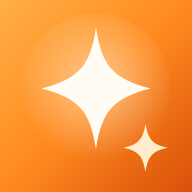
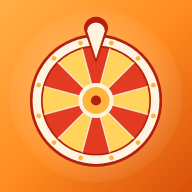
app 图标换成转盘,一眼看出是抽奖 (v25)
- 红金相间的 12 格转盘 + 奶油色指针 + 一圈金色灯泡,底色沿用橙色渐变
- 指针落在红格上,小尺寸(64px favicon)也能认出是转盘
- 顺带修好一个老问题:icon.html 里 .v.on 的权重低于 #box>svg{display:block},
  两个变体同时渲染,截图永远截第一个 —— 之前导出的 maskable 和标准图其实
  一模一样(md5 相同),Android 裁圆角会切到图形。选择器改成 #box>svg.v.on,
  maskable 现在真的缩到 0.8 落在安全圆内

Claude-Session: https://claude.ai/code/session_01Dnyjgi3Z2V5q129NEG1K6e

diff --git a/design/icon.html b/design/icon.html
@@ -2,50 +2,108 @@
 <html><head><meta charset="utf-8"><style>
   html,body{margin:0;background:transparent}
   #box{width:512px;height:512px}
-  #box>svg{display:block;width:100%;height:100%}
-  .v{display:none}
-  .v.on{display:block}
+  /* 注意 #box>svg 带 id,权重比 .v 高 —— 以前写成 display:block 会把 .v 的
+     display:none 盖掉,两个变体同时排下来,截图永远截到第一个(std),
+     导出的 maskable 其实和 std 一模一样。选择器必须一样具体。 */
+  #box>svg{width:100%;height:100%}
+  #box>svg.v{display:none}
+  #box>svg.v.on{display:block}
 </style></head>
 <body>
 <div id="box">
+
+<!-- 图形本体:转盘 + 指针。std 和 msk 共用,只是缩放不同。 -->
+<svg style="display:none" xmlns="http://www.w3.org/2000/svg"><defs>
+  <g id="wheel">
+    <!-- 外圈:奶油色轮盘边,上面一圈金色灯泡 -->
+    <circle cx="256" cy="256" r="196" fill="#B3200E"/>
+    <circle cx="256" cy="256" r="188" fill="#FFF4DF"/>
+    <circle cx="301.6" cy="86" r="7" fill="#FFB43A"/>
+    <circle cx="380.5" cy="131.5" r="7" fill="#FFB43A"/>
+    <circle cx="426" cy="210.4" r="7" fill="#FFB43A"/>
+    <circle cx="426" cy="301.6" r="7" fill="#FFB43A"/>
+    <circle cx="380.5" cy="380.5" r="7" fill="#FFB43A"/>
+    <circle cx="301.6" cy="426" r="7" fill="#FFB43A"/>
+    <circle cx="210.4" cy="426" r="7" fill="#FFB43A"/>
+    <circle cx="131.5" cy="380.5" r="7" fill="#FFB43A"/>
+    <circle cx="86" cy="301.6" r="7" fill="#FFB43A"/>
+    <circle cx="86" cy="210.4" r="7" fill="#FFB43A"/>
+    <circle cx="131.5" cy="131.5" r="7" fill="#FFB43A"/>
+    <circle cx="210.4" cy="86" r="7" fill="#FFB43A"/>
+    <circle cx="256" cy="256" r="163" fill="#B3200E"/>
+    <!-- 扇形:整体转 15°,指针正好指在一格中间而不是压在分隔线上 -->
+    <g transform="rotate(45 256 256)">
+    <path d="M256 256 L256 98 A158 158 0 0 1 335 119.2 Z" fill="#E23B22"/>
+    <path d="M256 256 L335 119.2 A158 158 0 0 1 392.8 177 Z" fill="#FFD35C"/>
+    <path d="M256 256 L392.8 177 A158 158 0 0 1 414 256 Z" fill="#E23B22"/>
+    <path d="M256 256 L414 256 A158 158 0 0 1 392.8 335 Z" fill="#FFD35C"/>
+    <path d="M256 256 L392.8 335 A158 158 0 0 1 335 392.8 Z" fill="#E23B22"/>
+    <path d="M256 256 L335 392.8 A158 158 0 0 1 256 414 Z" fill="#FFD35C"/>
+    <path d="M256 256 L256 414 A158 158 0 0 1 177 392.8 Z" fill="#E23B22"/>
+    <path d="M256 256 L177 392.8 A158 158 0 0 1 119.2 335 Z" fill="#FFD35C"/>
+    <path d="M256 256 L119.2 335 A158 158 0 0 1 98 256 Z" fill="#E23B22"/>
+    <path d="M256 256 L98 256 A158 158 0 0 1 119.2 177 Z" fill="#FFD35C"/>
+    <path d="M256 256 L119.2 177 A158 158 0 0 1 177 119.2 Z" fill="#E23B22"/>
+    <path d="M256 256 L177 119.2 A158 158 0 0 1 256 98 Z" fill="#FFD35C"/>
+    <!-- 分隔线 -->
+    <path d="M256 256 L256 98" stroke="#FFF6E2" stroke-width="4" stroke-linecap="round" opacity=".85"/>
+    <path d="M256 256 L335 119.2" stroke="#FFF6E2" stroke-width="4" stroke-linecap="round" opacity=".85"/>
+    <path d="M256 256 L392.8 177" stroke="#FFF6E2" stroke-width="4" stroke-linecap="round" opacity=".85"/>
+    <path d="M256 256 L414 256" stroke="#FFF6E2" stroke-width="4" stroke-linecap="round" opacity=".85"/>
+    <path d="M256 256 L392.8 335" stroke="#FFF6E2" stroke-width="4" stroke-linecap="round" opacity=".85"/>
+    <path d="M256 256 L335 392.8" stroke="#FFF6E2" stroke-width="4" stroke-linecap="round" opacity=".85"/>
+    <path d="M256 256 L256 414" stroke="#FFF6E2" stroke-width="4" stroke-linecap="round" opacity=".85"/>
+    <path d="M256 256 L177 392.8" stroke="#FFF6E2" stroke-width="4" stroke-linecap="round" opacity=".85"/>
+    <path d="M256 256 L119.2 335" stroke="#FFF6E2" stroke-width="4" stroke-linecap="round" opacity=".85"/>
+    <path d="M256 256 L98 256" stroke="#FFF6E2" stroke-width="4" stroke-linecap="round" opacity=".85"/>
+    <path d="M256 256 L119.2 177" stroke="#FFF6E2" stroke-width="4" stroke-linecap="round" opacity=".85"/>
+    <path d="M256 256 L177 119.2" stroke="#FFF6E2" stroke-width="4" stroke-linecap="round" opacity=".85"/>
+    </g>
+    <!-- 中心轴 -->
+    <circle cx="256" cy="256" r="52" fill="#FFF4DF"/>
+    <circle cx="256" cy="256" r="40" fill="#FFB43A"/>
+    <circle cx="256" cy="256" r="15" fill="#B3200E"/>
+  </g>
+  <g id="pointer">
+    <!-- 顶上的指针,压在轮盘边上,尖头朝下 -->
+    <path d="M256 146 L220 44 A36 36 0 0 1 292 44 Z" fill="#B3200E"/>
+    <path d="M256 132 L230 51 A26 26 0 0 1 282 51 Z" fill="#FFF4DF"/>
+  </g>
+</defs></svg>
 
 <!-- 标准图标:铺满整个方形 -->
 <svg class="v on" id="std" viewBox="0 0 512 512" xmlns="http://www.w3.org/2000/svg">
   <defs>
     <linearGradient id="sBg" x1="0" y1="0" x2="1" y2="1">
-      <stop offset="0" stop-color="#FFB047"/><stop offset="50%" stop-color="#FF8A1F"/><stop offset="100%" stop-color="#D9500A"/>
+      <stop offset="0" stop-color="#FFB047"/><stop offset="52%" stop-color="#FF8A1F"/><stop offset="100%" stop-color="#D9500A"/>
     </linearGradient>
-    <radialGradient id="sHalo" cx="50%" cy="46%" r="52%">
-      <stop offset="0" stop-color="#FFF6E2" stop-opacity=".55"/><stop offset="100%" stop-color="#FFF6E2" stop-opacity="0"/>
+    <radialGradient id="sHalo" cx="50%" cy="50%" r="56%">
+      <stop offset="0" stop-color="#FFF6E2" stop-opacity=".5"/><stop offset="100%" stop-color="#FFF6E2" stop-opacity="0"/>
     </radialGradient>
   </defs>
   <rect width="512" height="512" fill="url(#sBg)"/>
-  <circle cx="256" cy="236" r="200" fill="url(#sHalo)"/>
-  <path d="M256 74 C272 176 300 210 402 236 C300 262 272 296 256 398 C240 296 212 262 110 236 C212 210 240 176 256 74 Z"
-        fill="#FFFCF4"/>
-  <path d="M388 330 C395 372 407 386 448 394 C407 402 395 416 388 458 C381 416 369 402 328 394 C369 386 381 372 388 330 Z"
-        fill="#FFF3D6" opacity=".95"/>
+  <circle cx="256" cy="256" r="230" fill="url(#sHalo)"/>
+  <g transform="translate(256 268) scale(0.9) translate(-256 -256)">
+    <use href="#wheel"/><use href="#pointer"/>
+  </g>
 </svg>
 
 <!-- maskable:系统会把图标裁成圆形/水滴等各种形状,
      所有内容必须落在中心 80% 直径的安全圆内(半径 204.8),
-     所以图形整体缩到 74% 并居中,背景仍然铺满。 -->
+     指针顶端离中心最远(约 234),所以整体缩到 0.8 并居中,背景仍然铺满。 -->
 <svg class="v" id="msk" viewBox="0 0 512 512" xmlns="http://www.w3.org/2000/svg">
   <defs>
     <linearGradient id="mBg" x1="0" y1="0" x2="1" y2="1">
-      <stop offset="0" stop-color="#FFB047"/><stop offset="50%" stop-color="#FF8A1F"/><stop offset="100%" stop-color="#D9500A"/>
+      <stop offset="0" stop-color="#FFB047"/><stop offset="52%" stop-color="#FF8A1F"/><stop offset="100%" stop-color="#D9500A"/>
     </linearGradient>
-    <radialGradient id="mHalo" cx="50%" cy="48%" r="46%">
-      <stop offset="0" stop-color="#FFF6E2" stop-opacity=".55"/><stop offset="100%" stop-color="#FFF6E2" stop-opacity="0"/>
+    <radialGradient id="mHalo" cx="50%" cy="50%" r="46%">
+      <stop offset="0" stop-color="#FFF6E2" stop-opacity=".5"/><stop offset="100%" stop-color="#FFF6E2" stop-opacity="0"/>
     </radialGradient>
   </defs>
   <rect width="512" height="512" fill="url(#mBg)"/>
-  <circle cx="256" cy="248" r="170" fill="url(#mHalo)"/>
-  <g transform="translate(256 256) scale(0.74) translate(-256 -248)">
-    <path d="M256 74 C272 176 300 210 402 236 C300 262 272 296 256 398 C240 296 212 262 110 236 C212 210 240 176 256 74 Z"
-          fill="#FFFCF4"/>
-    <path d="M388 330 C395 372 407 386 448 394 C407 402 395 416 388 458 C381 416 369 402 328 394 C369 386 381 372 388 330 Z"
-          fill="#FFF3D6" opacity=".95"/>
+  <circle cx="256" cy="256" r="190" fill="url(#mHalo)"/>
+  <g transform="translate(256 268) scale(0.8) translate(-256 -256)">
+    <use href="#wheel"/><use href="#pointer"/>
   </g>
 </svg>
 

diff --git a/index.html b/index.html
@@ -684,7 +684,7 @@ td input{padding:9px 10px;font-size:15px}
 
 /* 改 index.html 时把这里加一,并把 sw.js 的 VERSION 改成同一个值。
    两边对不上的话,设置里的版本行会直接告诉用户「你看到的是旧缓存」。 */
-var APP_VERSION = 'v24';
+var APP_VERSION = 'v25';
 var APP_DATE = '2026-08-19';
 var swVersion = null;
 

diff --git a/sw.js b/sw.js
@@ -1,6 +1,6 @@
 /* จับรางวัล · 抽奖 — service worker
    改动这个文件时把 VERSION 加一,用户下次打开会收到更新提示。 */
-const VERSION = 'v24';
+const VERSION = 'v25';
 const CORE = 'draw-core-' + VERSION;
 const RUNTIME = 'draw-runtime-' + VERSION;
 

diff --git a/design/README.md b/design/README.md
@@ -1,5 +1,8 @@
 # 图标
 
+现在的图标是一个**转盘**(红/金相间的扇形 + 顶上的指针),一眼能看出是抽奖用的。
+盘面和指针画在一段共用的 `<defs>` 里,两个变体用 `<use>` 引,只是缩放不同。
+
 应用图标的唯一来源是 `icon.html` 里的两段 SVG:
 
 | 变体 | 用途 |
@@ -21,3 +24,11 @@ node design/make-icons.js
 
 > 已经装到手机桌面的 PWA,换图标后系统未必会刷新桌面上那个图标 ——
 > 通常要把它从桌面删掉、重新「添加到主屏幕」才会变。
+
+## 一个踩过的坑
+
+`icon.html` 里控制显示哪个变体的选择器必须写成 `#box>svg.v.on`。
+写成 `.v.on` 的话权重比 `#box>svg{display:block}` 低,两个变体会同时排在
+box 里往下堆,截图永远截到第一个 —— 导出的 `icon-maskable-512.png` 和
+`icon-512.png` 会一模一样(内容顶到边,Android 裁圆角时会被切掉)。
+改完记得 `md5sum icon-512.png icon-maskable-512.png` 对一下,两个必须不同。
